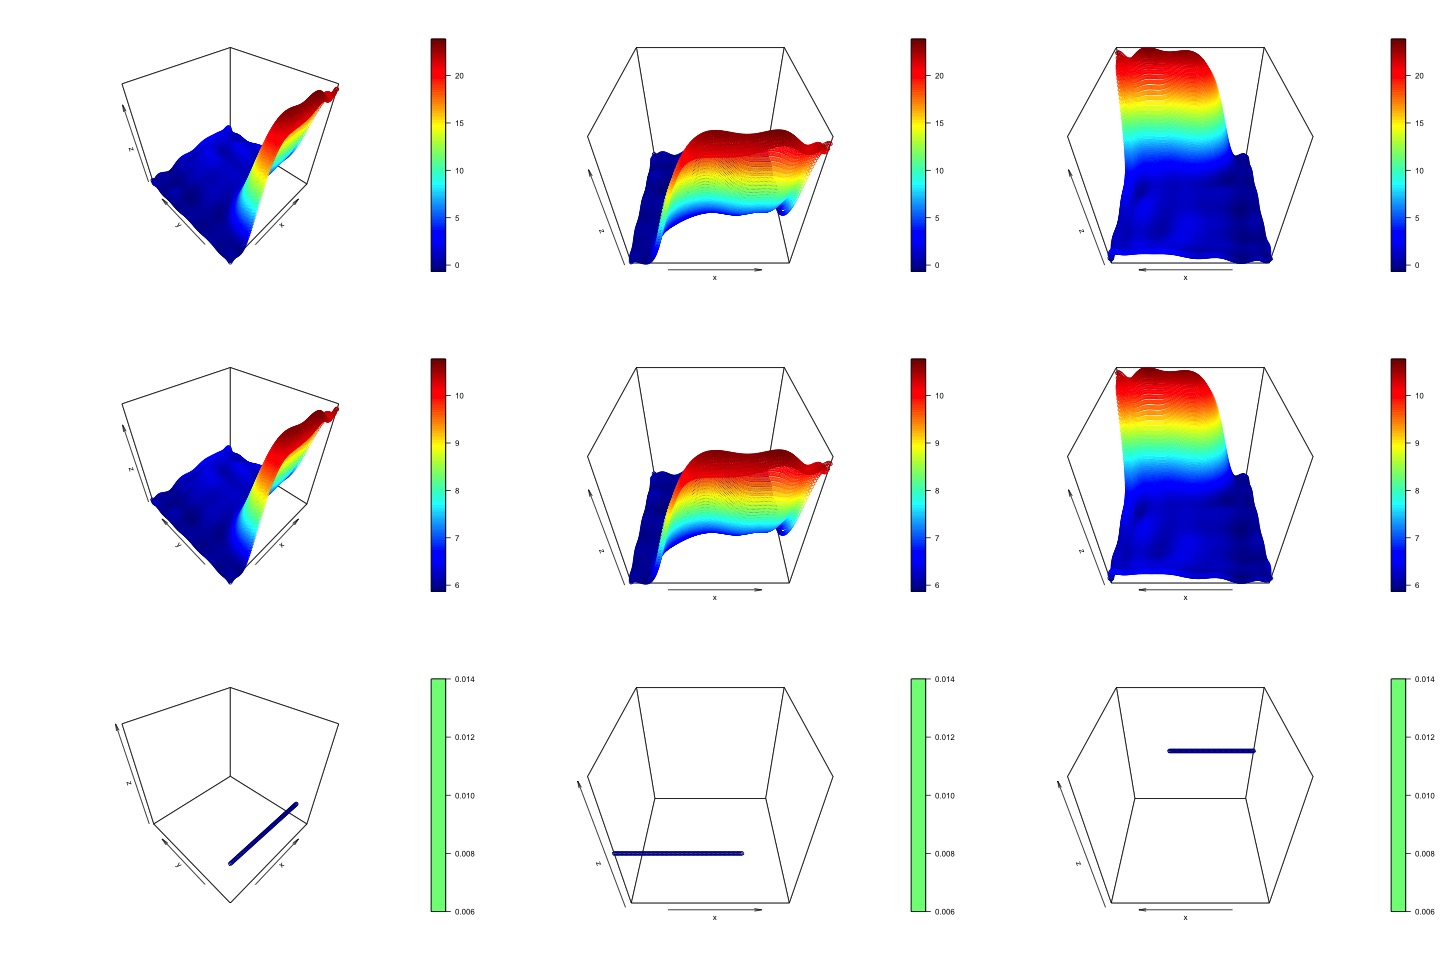
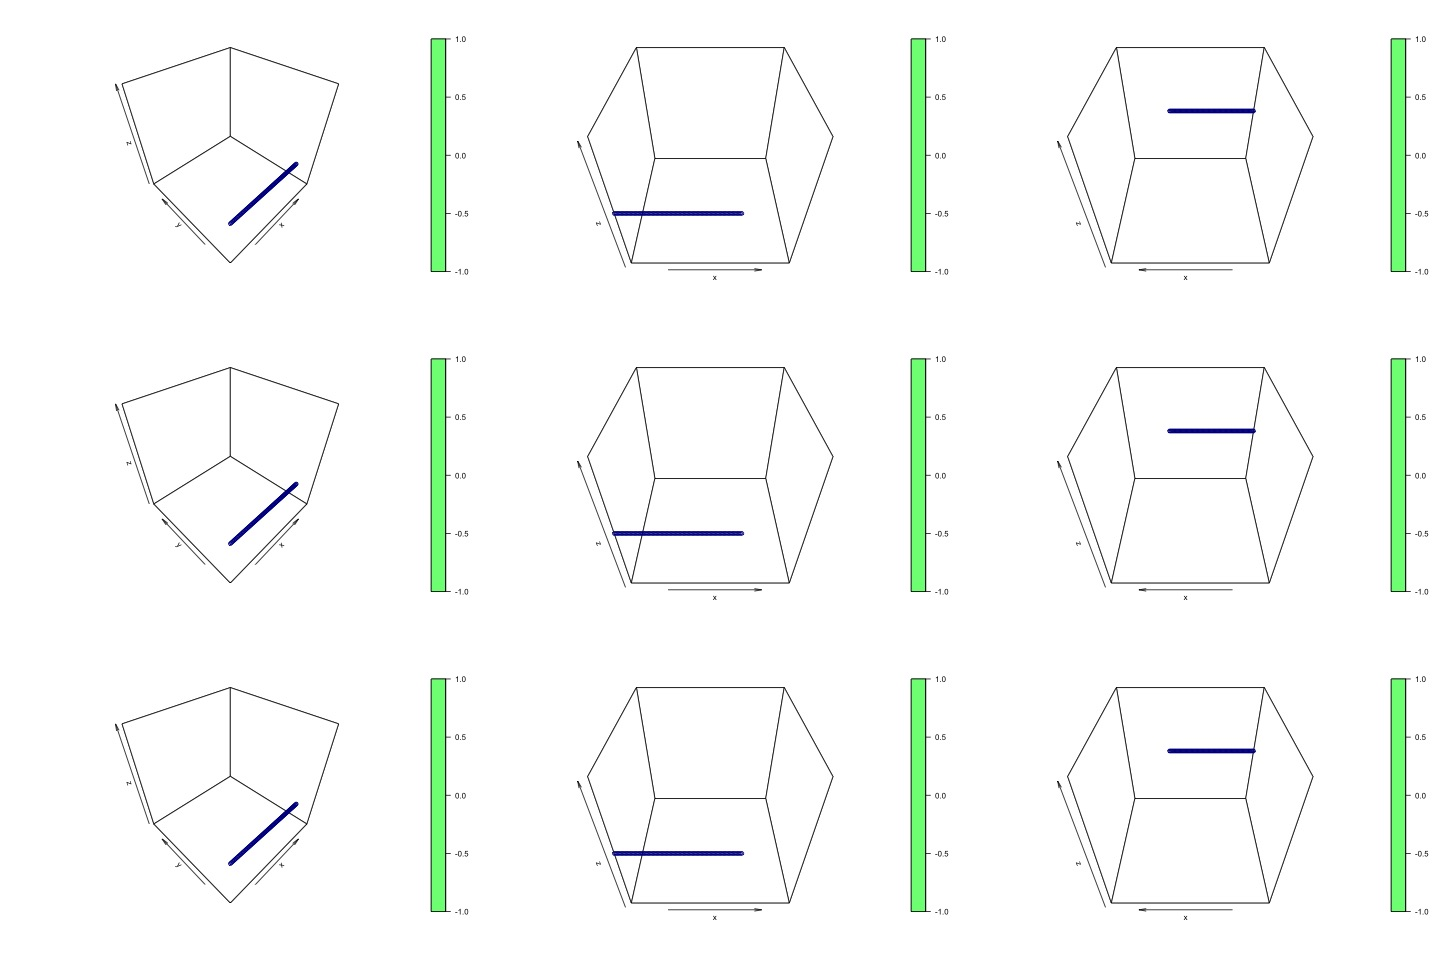
finished first part of incorporating ANN

diff --git a/src/fitting.cpp b/src/fitting.cpp
@@ -4,10 +4,20 @@
 #include <eigen3/Eigen/Dense>
 #include "parameters.hpp"
 #include "fitting.hpp"
+
 #include <dlib/dnn.h>
 #include <dlib/data_io.h>
 using namespace std;
 using namespace dlib;
+using net_type = loss_mean_squared<fc<1,
+					// fc<5,
+					// fc<5,
+					// htan<l2normalize<
+					  htan<fc<100,
+					  input<matrix<float,0,1>>
+					  >>>>;
+net_type net;
+
 
 // void vander_hermite(double **xy_data, double **X, int ** alpha, size_t num_of_alpha){
 //     double z[d];
@@ -67,28 +77,13 @@ double predict(double *state){
 	return V_hat(state, value_coef, alpha_coef, num_of_coef);
     }
     else if(approx_type == "ann_lagrange"){
-	// std::vector<matrix<float, 0, 1>> samples(S);
-	// std::vector<float> labels(S);
-
-	// for(size_t i=0; i<S; i++){
-	//     samples[i] = {xy_data[i][0], xy_data[i][1]};
-	//     labels[i] = {v_hat[i]};
-	// }
-
-	// using net_type = loss_mean_squared<fc<1,
-	// 				// fc<5,
-	// 				// fc<5,
-	// 				// htan<l2normalize<
-	// 				  htan<fc<225,
-	// 				  input<matrix<float,0,1>>
-	// 				  >>>>;
-	// net_type net;
-	// dnn_trainer<net_type> trainer(net);
-
-	// trainer.set_learning_rate(0.1);
-	// for(int i=0; i<1000; i++)
-	//     trainer.train_one_step(samples, labels);
-	// trainer.get_net();
+	std::vector<matrix<float, 0, 1>> sample(1);
+	sample[0] = {(state[0] - xmin[0])/(xmax[0] - xmin[0]),
+		     (state[1] - xmin[1])/(xmax[1] - xmin[1])};
+	auto out = net(sample);
+	// return out[0];
+	// printf("%f\n", out[0]);
+	// std::cout << out[0] << std::endl;
 	return 0;
     }
     else{
@@ -193,23 +188,26 @@ void fitting(double **xy_data, double *v_hat, double *dz_data0, double *dz_data1
 	std::vector<float> labels(S);
 
 	for(size_t i=0; i<S; i++){
-	    samples[i] = {xy_data[i][0], xy_data[i][1]};
+	    samples[i] = {(xy_data[i][0] - xmin[0])/(xmax[0] - xmin[0]),
+			  (xy_data[i][1] - xmin[1])/(xmax[1] - xmin[1])};
 	    labels[i] = {v_hat[i]};
+	    std::cout << "i=" << i << "\tsample=(" << samples[i](0,0) << ", "
+		      << samples[i](1,0) << ")\t\tlabel=" << labels[i] << std::endl;
 	}
 
-	using net_type = loss_mean_squared<fc<1,
-					// fc<5,
-					// fc<5,
-					// htan<l2normalize<
-					  htan<fc<225,
-					  input<matrix<float,0,1>>
-					  >>>>;
-	net_type net;
+	// trainer();
 	dnn_trainer<net_type> trainer(net);
 
 	trainer.set_learning_rate(0.1);
-	for(int i=0; i<1000; i++)
+
+	for(int i=0; i<10000; i++)
 	    trainer.train_one_step(samples, labels);
 	trainer.get_net();
+	std::vector<matrix<float, 0, 1>> sample(1);
+	sample[0] = {1, 1};
+	auto out = net(sample);
+	// return out[0];
+	// printf("%f\n", out[0]);
+	std::cout << out[0] << std::endl;
     }
 }

diff --git a/src/main.cpp b/src/main.cpp
@@ -10,9 +10,9 @@
 #include <omp.h>
 #include <stdio.h>
 
-#include <dlib/dnn.h>
-#include <dlib/data_io.h>
-using namespace dlib;
+// #include <dlib/dnn.h>
+// #include <dlib/data_io.h>
+// using namespace dlib;
 
 // void print_mat(double **mat, size_t s0, size_t s1) {
 //     for(size_t i=0; i<s0; i++){
@@ -123,7 +123,8 @@ void plotting(double **xy_knots, double *value, size_t k){
         xy_test[i][1] = y_test[i / num_of_test];
     }
     for(size_t i=0; i<S_test; i++){
-        v_test[i] = V_hat(xy_test[i], value_coef, alpha_coef, num_of_coef);
+        v_test[i] = predict(xy_test[i]);
+	// V_hat(xy_test[i], value_coef, alpha_coef, num_of_coef);
         p_test[i] = V_hat(xy_test[i], price_coef, alpha_coef, num_of_coef);
         inv_test[i] = V_hat(xy_test[i], policy_coef, alpha_coef, num_of_coef);
     }
@@ -189,6 +190,7 @@ int main(int argv, char* argc[]){
     value_last = new double [S];
     price_last = new double [S];
     policy_last = new double [S];
+    fitting(xy_knots, value, dvalue0, dvalue1, value_coef, z_knots);
     for(size_t k=0; k<Nmax; k++){
         for(size_t i=0; i<S; i++){
             value_last[i] = value[i];
@@ -201,14 +203,9 @@ int main(int argv, char* argc[]){
             price[i] = price[i]*eta + (1-eta)*price_last[i];
             policy[i] = policy[i]*eta + (1-eta)*policy_last[i];
         }
-        // fitting_lagrange(xy_knots, policy, policy_coef, alpha_policy_coef, num_of_policy_coef);
-	// fitting_ann(xy_knots, z_knots, price, price_coef, alpha_policy_coef, num_of_policy_coef);
 	fitting(xy_knots, value, dvalue0, dvalue1, value_coef, z_knots);
-	fitting(xy_knots, price, dvalue0, dvalue1, price_coef, z_knots);
-	fitting(xy_knots, policy, dvalue0, dvalue1, policy_coef, z_knots);
-        // fitting_Cai(xy_knots, z_knots, price, price_coef, alpha_policy_coef, num_of_policy_coef);
-	// fitting_Cai(xy_knots, z_knots, policy, policy_coef, alpha_policy_coef, num_of_policy_coef);
-        // fitting_Cai(xy_knots, z_knots, value, value_coef, alpha_value_coef, num_of_value_coef);
+	// fitting(xy_knots, price, dvalue0, dvalue1, price_coef, z_knots);
+	// fitting(xy_knots, policy, dvalue0, dvalue1, policy_coef, z_knots);
         plotting(xy_knots, value, k);
         printf("%zd\n", k);
     }
@@ -224,8 +221,10 @@ int main(int argv, char* argc[]){
     delete[] price_last;
     delete[] dvalue0;
     delete[] dvalue1;
+    delete[] z;
     for(size_t i=0; i<S; i++){
         delete[] xy_knots[i];
+	delete[] z_knots[i];
     }
     delete[] xy_knots;
     for(size_t i=0; i<num_of_coef; i++){

diff --git a/src/parameters.cpp b/src/parameters.cpp
@@ -1,6 +1,10 @@
 #include "parameters.hpp"
 #include <math.h>
 #include <stdio.h>
+// #include <dlib/dnn.h>
+// #include <dlib/data_io.h>
+// using namespace std;
+// using namespace dlib;
 
 size_t d;
 size_t num_of_actions;
@@ -25,7 +29,14 @@ double *value_coef;
 double *policy_coef;
 double *price_coef;
 int **alpha_coef;
-std::string approx_type = "cai_lagrange";
+std::string approx_type = "ann_lagrange";
+// using net_type = loss_mean_squared<fc<1,
+// 				      htan<fc<225,
+// 				      input<matrix<float,0,1>>
+// 				      >>>>;
+// net_type net;
+// dnn_trainer<net_type> trainer(net);
+
 
 const size_t choose(size_t n, size_t k){
     if(k==0){
@@ -38,8 +49,8 @@ const size_t choose(size_t n, size_t k){
 
 __attribute__((constructor)) void initialize(){
     d = 2;
-    Nmax = 100;
-    num_of_knots = 30;
+    Nmax = 2;
+    num_of_knots = 10;
     S = num_of_knots*num_of_knots;
     num_of_test = 150;
     S_test = num_of_test*num_of_test;
@@ -88,6 +99,17 @@ __attribute__((constructor)) void initialize(){
             }
         }
     }
+
+    // if(approx_type == "ann_lagrange"){
+    // 	using net_type = loss_mean_squared<fc<1,
+    // 					// fc<5,
+    // 					// fc<5,
+    // 					// htan<l2normalize<
+    // 					  htan<fc<225,
+    // 					  input<matrix<float,0,1>>
+    // 					  >>>>;
+    // 	net_type net;
+    // }
 
     // value_coef_degree = 2*num_of_knots - 1;
     // value_coef_degree = policy_coef_degree;

diff --git a/src/parameters.hpp b/src/parameters.hpp
@@ -3,6 +3,11 @@
 
 #include <string>
 #include <stdio.h>
+#include <dlib/dnn.h>
+#include <dlib/data_io.h>
+using namespace std;
+using namespace dlib;
+
 extern std::string approx_type;
 extern size_t d;
 extern size_t Nmax;
@@ -27,6 +32,16 @@ extern double *value_coef;
 extern double *policy_coef;
 extern double *price_coef;
 extern int **alpha_coef;
+
+// using net_type = loss_mean_squared<fc<1,
+// 					// fc<5,
+// 					// fc<5,
+// 					// htan<l2normalize<
+// 					  htan<fc<225,
+// 					  input<matrix<float,0,1>>
+// 					  >>>>;
+// extern net_type net;
+// extern dnn_trainer<net_type> trainer;
 
 typedef struct {
     double *state;

diff --git a/src/fitting.hpp b/src/fitting.hpp
@@ -4,6 +4,10 @@
 #include <stdio.h>
 #include <math.h>
 #include "parameters.hpp"
+#include <dlib/dnn.h>
+#include <dlib/data_io.h>
+using namespace std;
+using namespace dlib;
 
 // double cheb_T(const size_t n, const double x);
 // double cheb_U(size_t n, double x);
